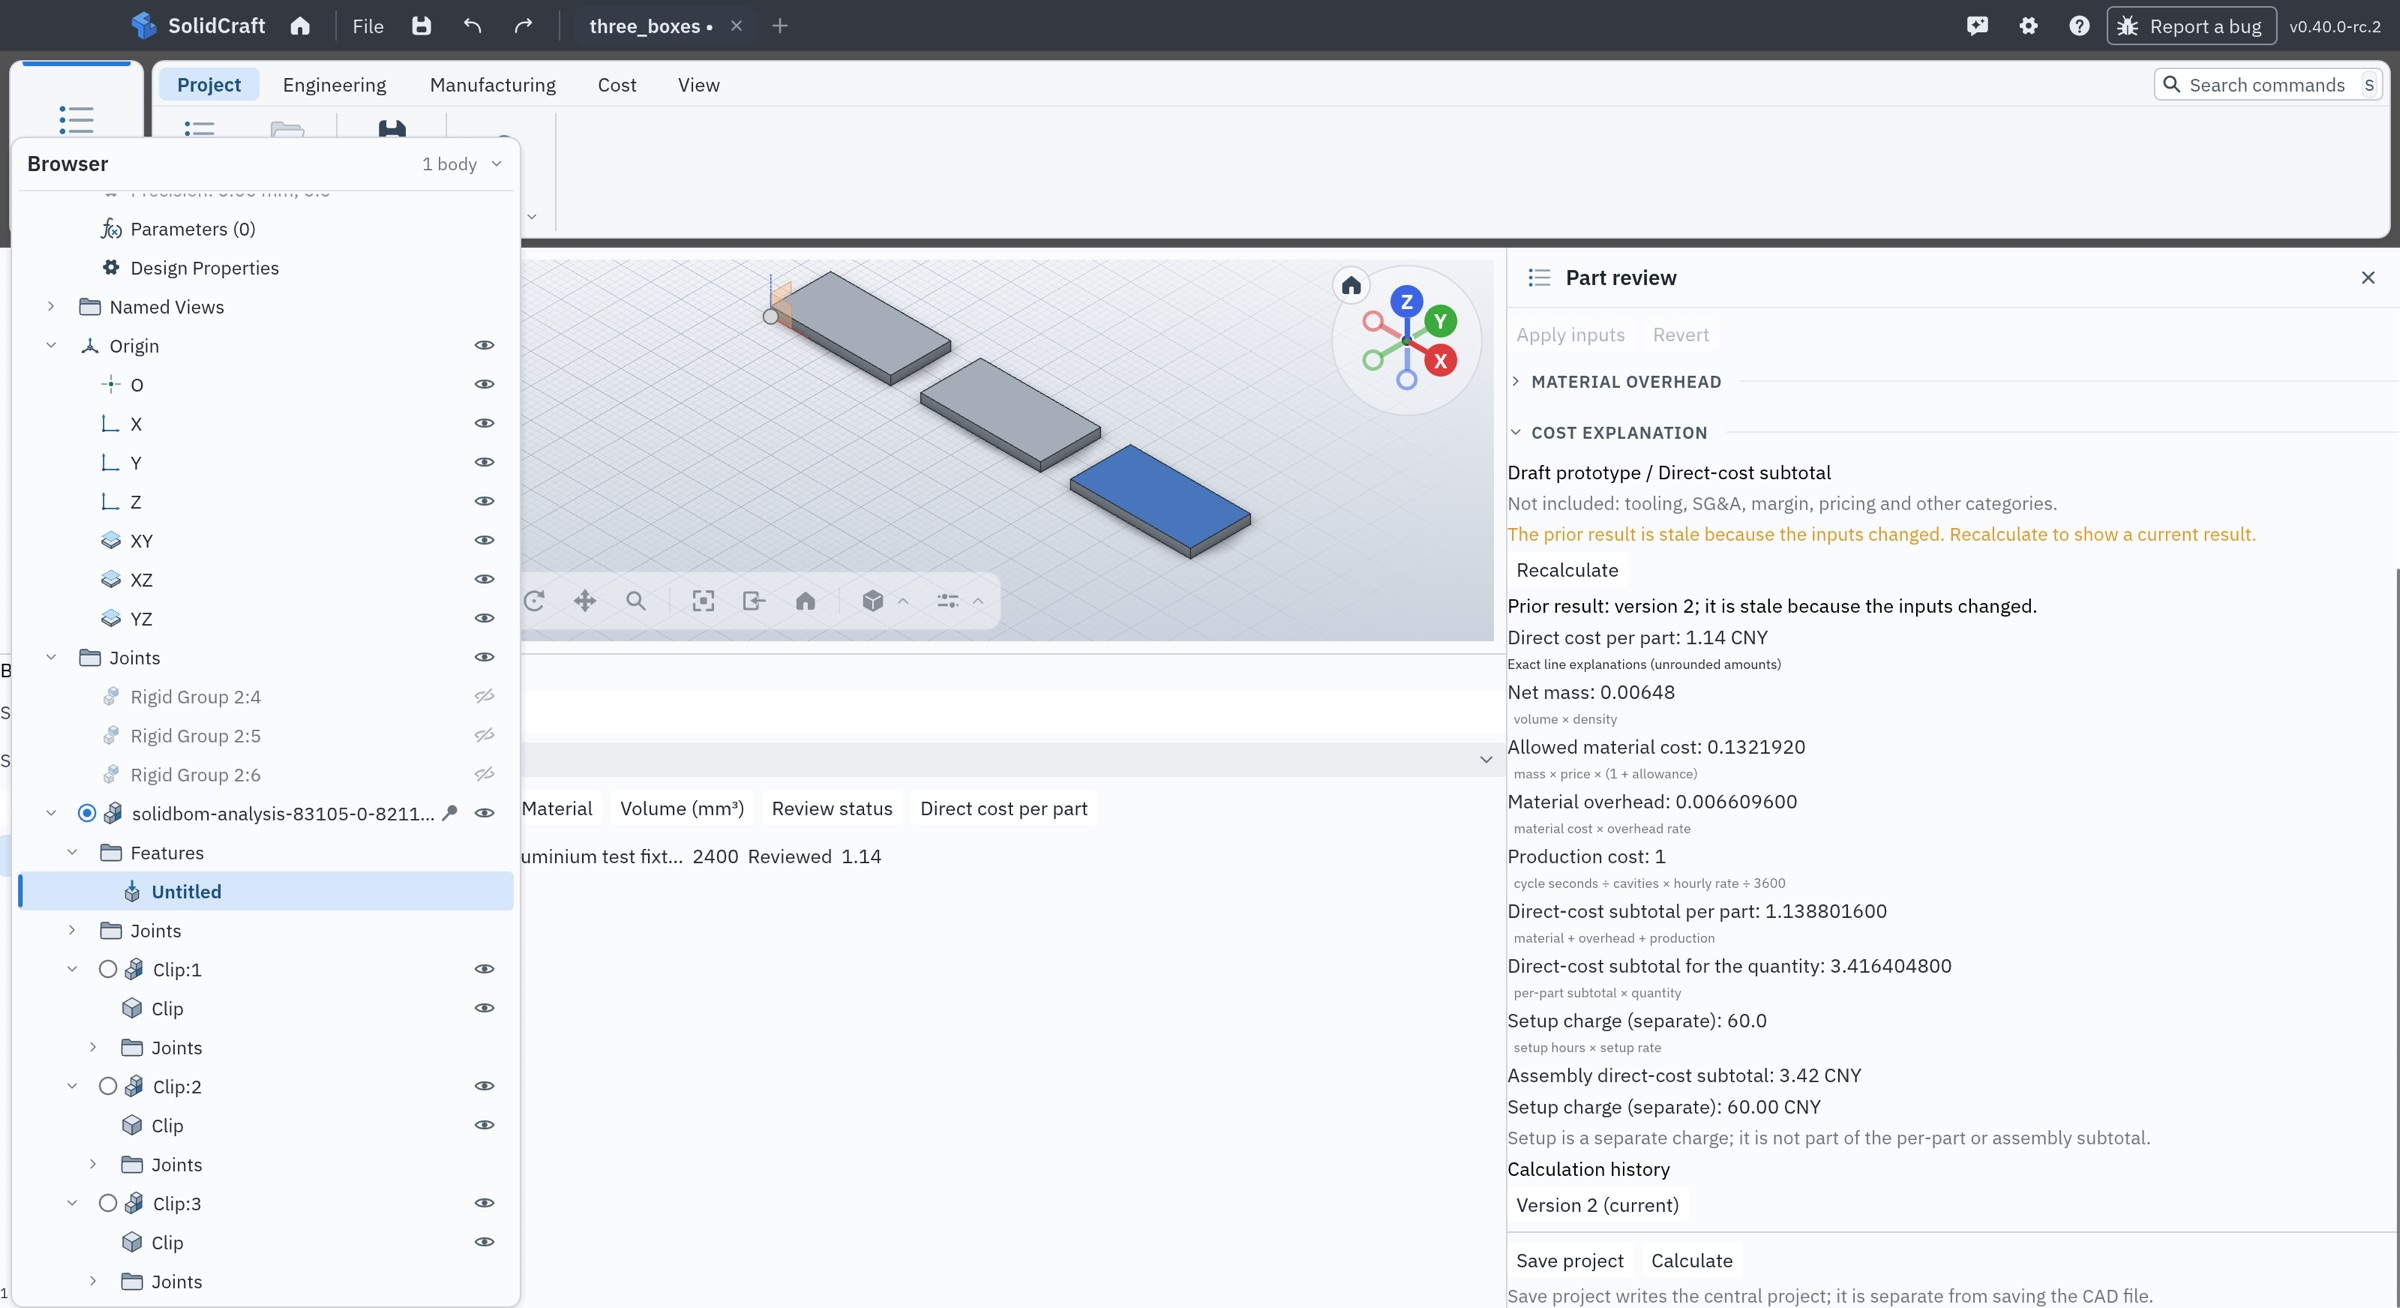
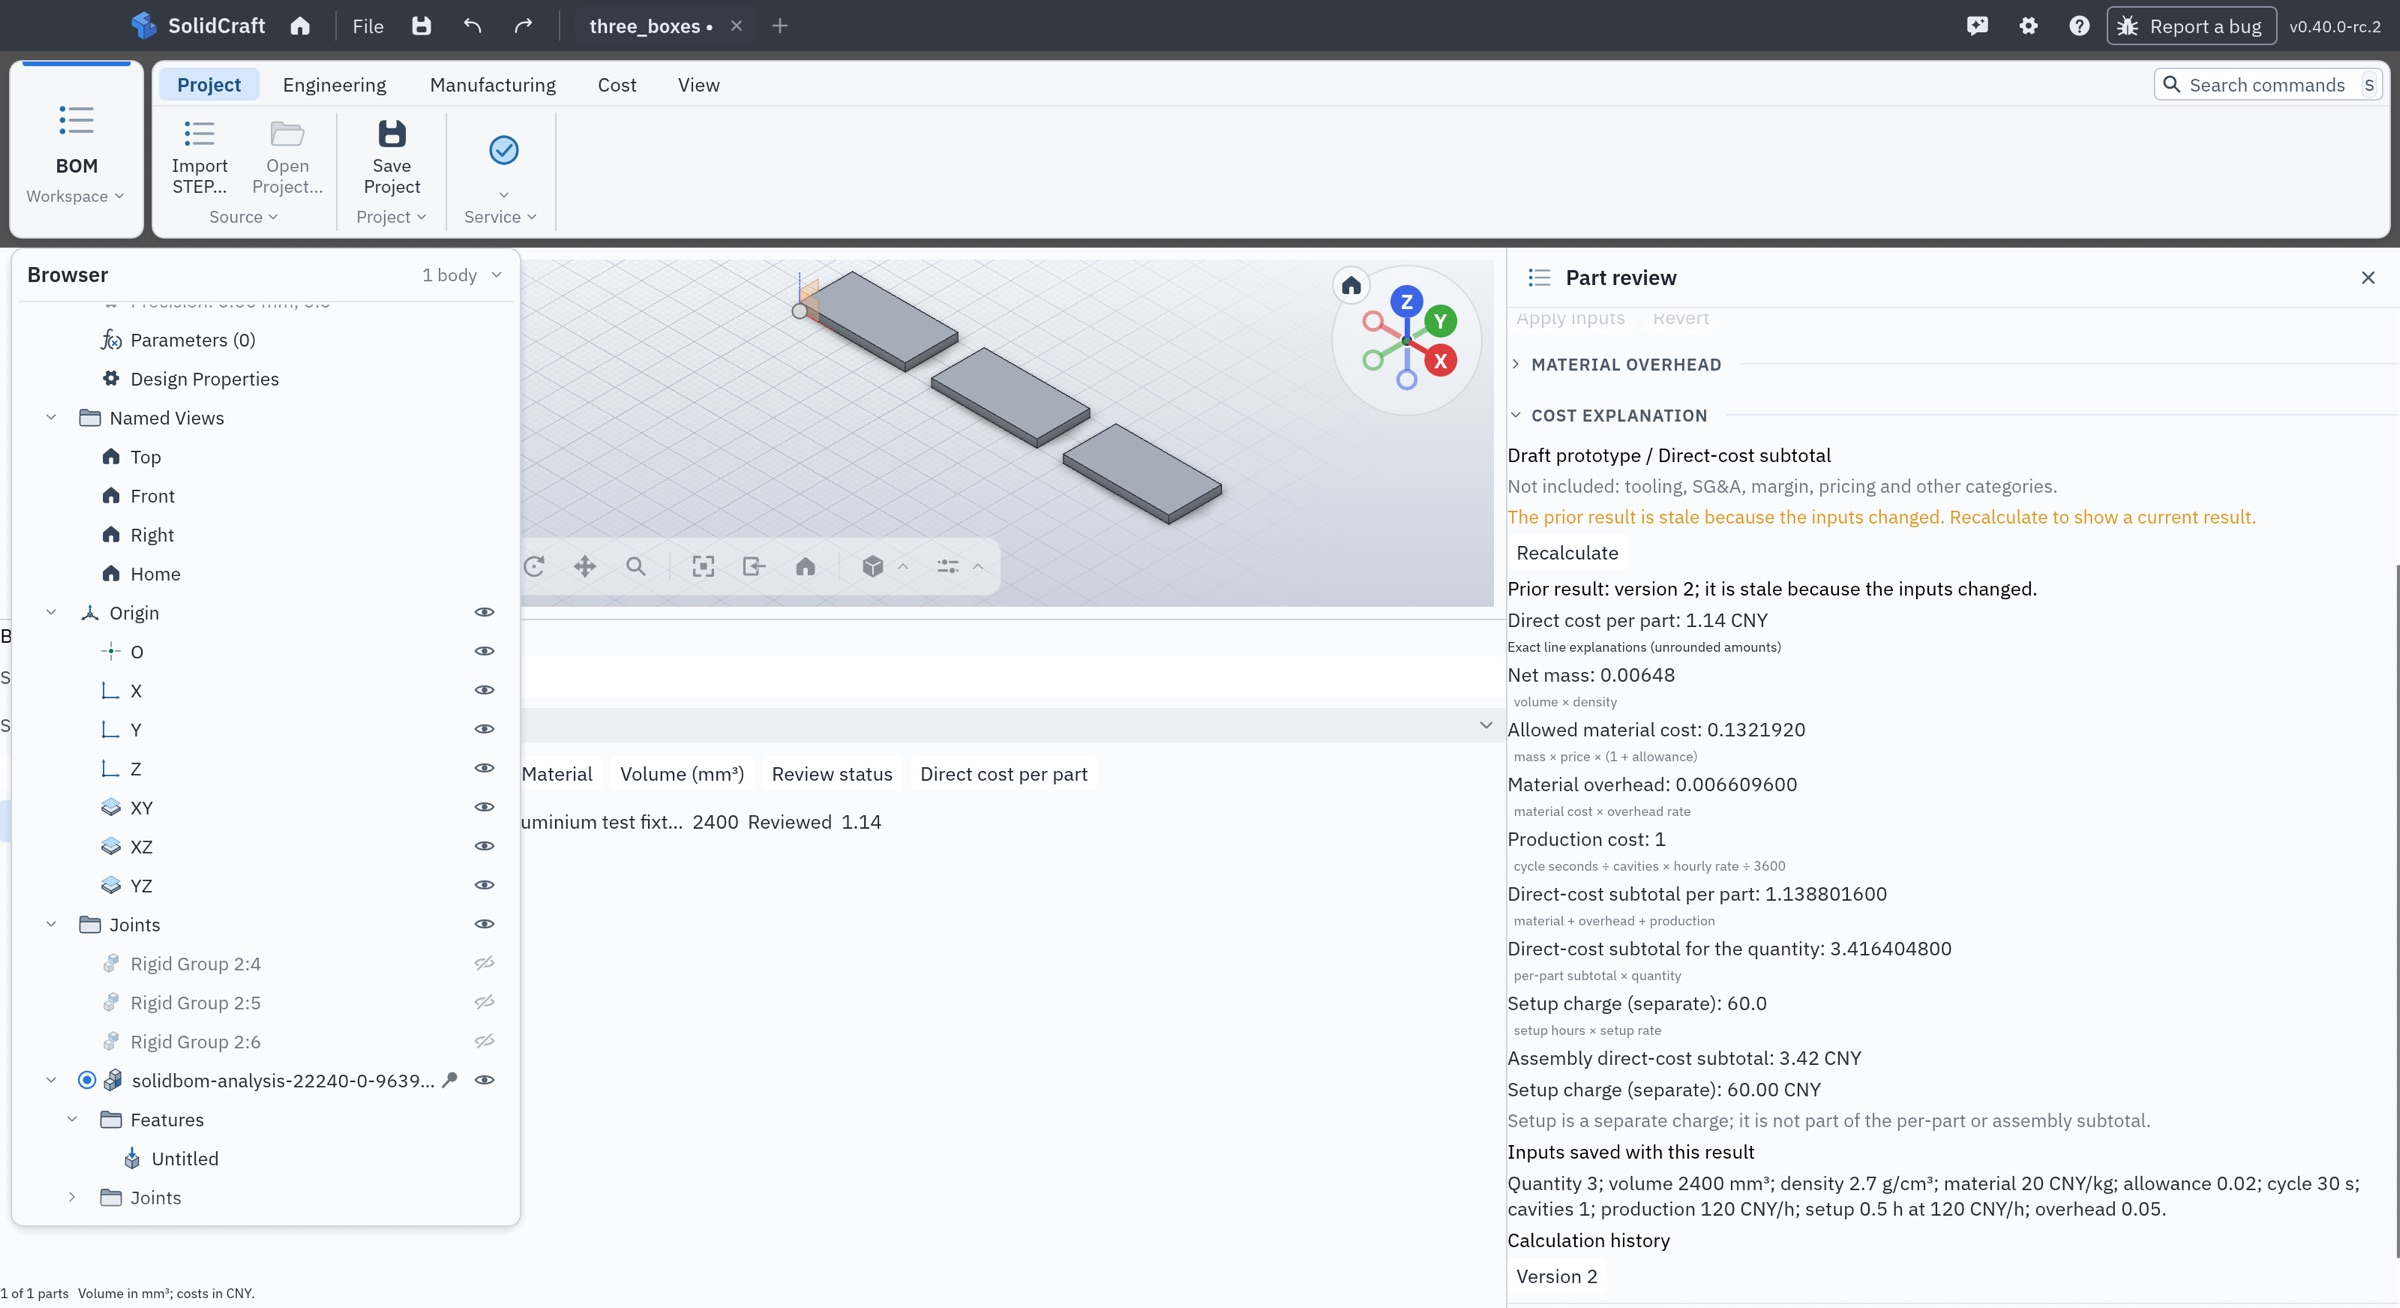
SB-07: refresh the review round 1 evidence
Re-capture the stale cost panel, the incomplete-result table after an edit, the
loaded older saved calculation and the stale result's own inputs on the
review-fix revision.

Refs #22 (SB-07).

diff --git a/evidence/sb-07/README.md b/evidence/sb-07/README.md
@@ -17,3 +17,13 @@ branch.
 
 PNGs are the originals; these files are downscaled JPEG copies for the pull-request description.
 The dialog text and values in the images are the application's own.
+
+## Review round 1 refresh
+
+The after captures `after-12-stale-after-cycle-60.jpg`, `after-23-flat-incomplete-after-edit.jpg`,
+`after-24-history-loaded-older.jpg` and `after-25-stale-result-inputs.jpg` were re-made on the
+review-fix revision (`29c506bbc`) to cover the three fixed findings: an incomplete result stays
+uncosted in the table after a later edit, a stale result is not labelled current and keeps its own
+saved inputs, and a summary-only history row loads its saved calculation through the new additive
+`solidbom.calculation` command. They pair with the unchanged baseline captures for the same flows
+(the before pair still shows the absence of two-place display and history).
